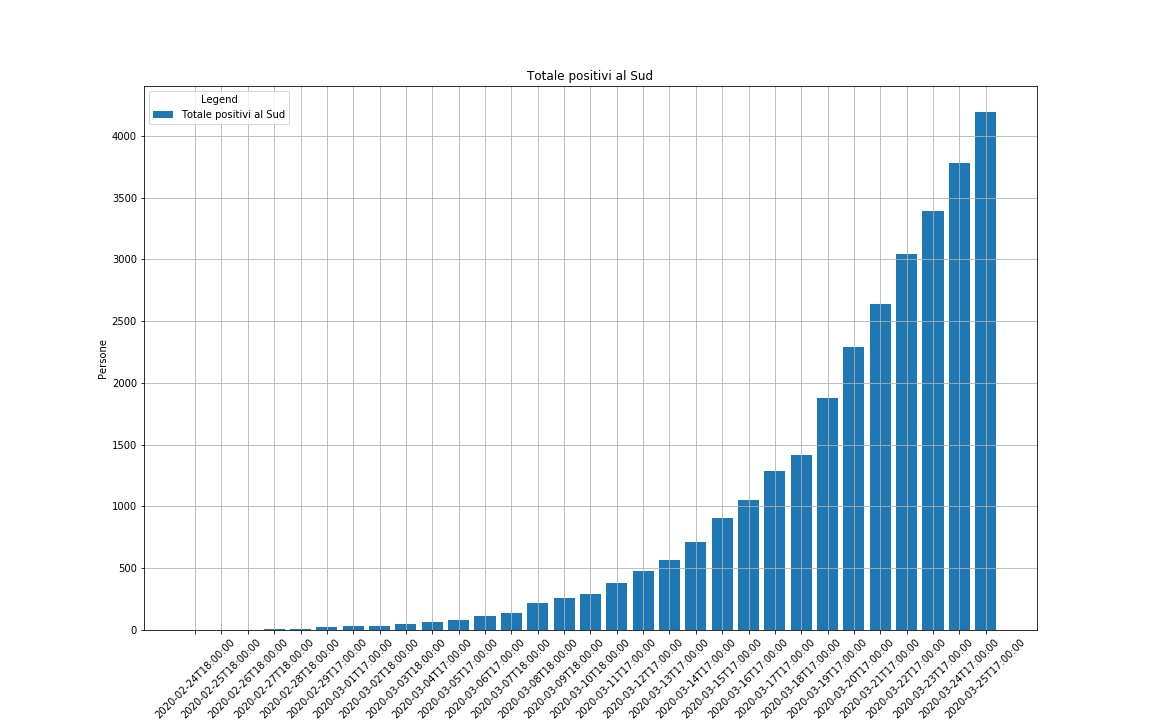
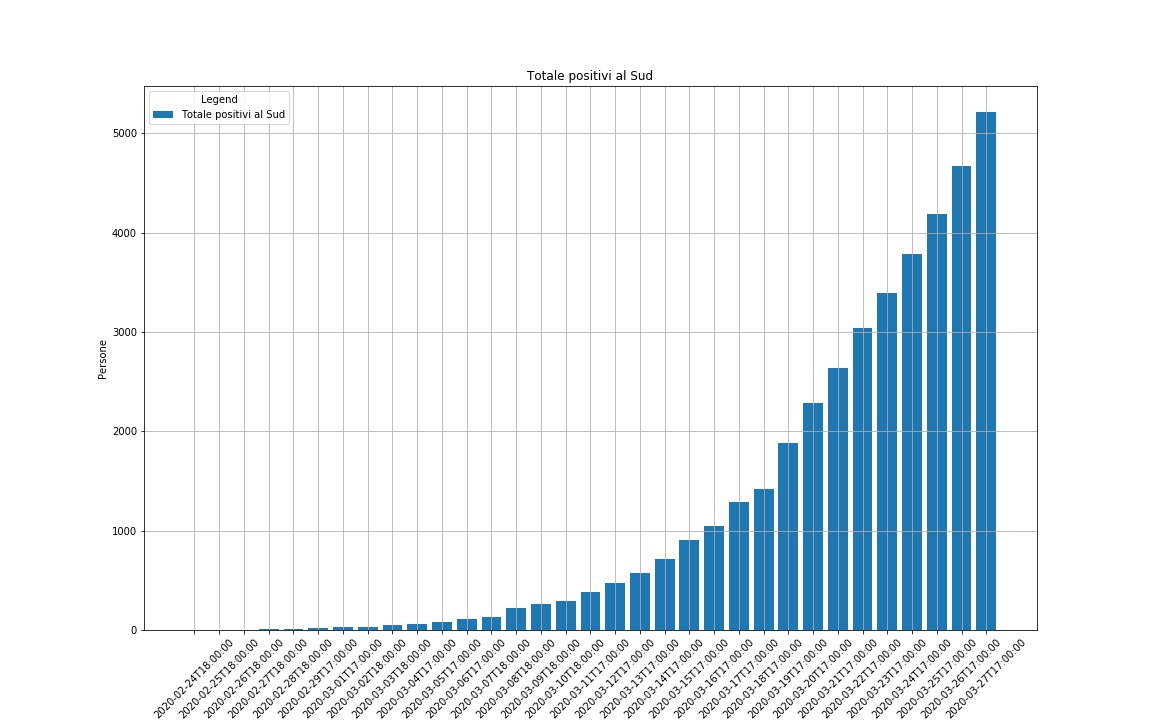
UPD: 27/03/2020 & calibration updated

diff --git a/prediction_sir_model.py b/prediction_sir_model.py
@@ -37,10 +37,10 @@ def SIR_model(I0, R0, N, beta, gamma, t_max=len(DataFrame.data)):
     S, I, R = ret.T
     return S, I, R, t
 
-def calibration(N_min, N_max, N_jump, max_error, beta_min=0.15, beta_max=0.4, gamma_den_min=5, gamma_den_max=14):
+def calibration(N_min, N_max, N_jump, max_error, beta_min=0.15, beta_max=0.4, gamma_den_min=1, gamma_den_max=14):
     #result = pd.DataFrame(columns=['N', 'beta', 'gamma_den', 'R0', 'error_avg'])
-    list = []
     for N in range(N_min, N_max, N_jump):
+        list = []
         situazione_calcolo = (N-N_min) / (N_max-N_min)
         print("Calcolo al: "+str(round(situazione_calcolo*100, 2))+"%")
         for beta in np.arange(beta_min, beta_max, 0.0025):
@@ -56,10 +56,17 @@ def calibration(N_min, N_max, N_jump, max_error, beta_min=0.15, beta_max=0.4, ga
                 if abs(error_positivi_avg) < max_error:
                     #print(N, beta, gamma_den, beta/gamma, error_positivi_avg, error_guariti_avg)
                     list.append([N, beta, gamma_den, beta/gamma, error_positivi_avg, error_guariti_avg])  
-    result = pd.DataFrame(list, columns = ["N", "beta", "gamms_den", "R0", "error_positivi_avg", "error_guariti_avg"])
+        result = pd.DataFrame(list, columns = ["N", "beta", "gamms_den", "R0", "error_positivi_avg", "error_guariti_avg"])
+        index_min_error = result.error_positivi_avg.idxmin()
+        N, beta, gamma_den, Rknot, err_positivi, err_guariti = result.iloc[index_min_error]
+        print(result.iloc[index_min_error])
+        S, I, R, t  = SIR_model(I0, R0, N, beta, 1/gamma_den, t_max = 120)
+        positivi_misurati = DataFrame.totale_attualmente_positivi
+        tempo_misurati = range(0,len(DataFrame.data))
+        plt_SIR_model(t, S, I, R, tempo_misurati, positivi_misurati, N, beta, gamma_den, Rknot, err_positivi)
     return result
 
-def plt_SIR_model(t, S, I, R, tempo_misurati, positivi_misurati):
+def plt_SIR_model(t, S, I, R, tempo_misurati, positivi_misurati, N, beta, gamma_den, R0, err_positivi):
     # Plot the data on three separate curves for S(t), I(t) and R(t)
     fig = plt.figure(facecolor='w', figsize=(16,10))
     ax = fig.add_subplot(111, axisbelow=True)
@@ -78,16 +85,17 @@ def plt_SIR_model(t, S, I, R, tempo_misurati, positivi_misurati):
     legend.get_frame().set_alpha(0.5)
     for spine in ('top', 'right', 'bottom', 'left'):
         ax.spines[spine].set_visible(False)
-    plt.savefig("PredictionSIR.jpg")
+    filename=str('PredictionSIR N'+str(round(N))+', beta'+str(round(beta,5))+', gamma_den'+str(round(gamma_den,3))+', RO'+str(round(R0,3))+', error'+str(round(err_positivi,4))+'.jpg')
+    plt.savefig(filename)
 
 calibration_flag = 1
 #Parameters for calibration
-N_min, N_max, N_jump, max_error = 275000, 300000, 5000, 0.2
+N_min, N_max, N_jump, max_error = 360000, 600000, 5000, 0.3
 I0 = 229
 R0 = 0
 # Calibration
 if calibration_flag == 1:
-    result = calibration(N_min, N_max, N_jump, max_error, beta_max=0.5)
+    result = calibration(N_min, N_max, N_jump, max_error, beta_max=0.45)
     index_min_error = result.error_positivi_avg.idxmin()
     N, beta, gamma_den, Rknot, err_positivi, err_guariti = result.iloc[index_min_error]
     print(result.iloc[index_min_error])
